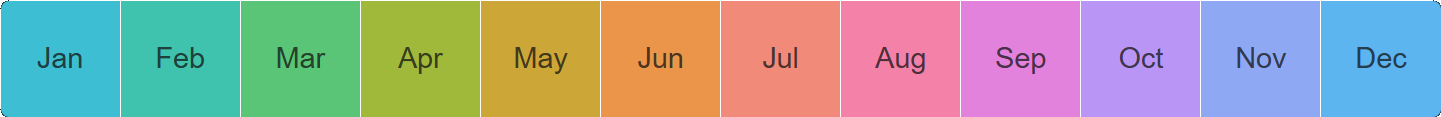
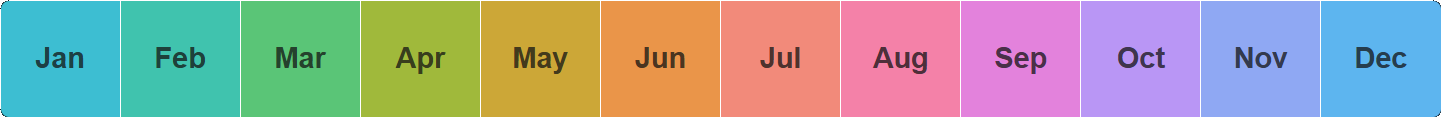
Update heading

diff --git a/index.html b/index.html
@@ -133,7 +133,7 @@
   }
 
   .month-label {
-    /* font-weight: bold; */
+    font-weight: bold;
     font-size: 1.8rem;
     /* margin-bottom: 0.25rem; */
   }
@@ -180,73 +180,73 @@
   <div class="ribbon-month" style="background: var(--jan-clear-ice)" data-hex="#3dbed2">
     <div class="month-label">Jan</div>
     <div class="sekki-label">Clear Ice</div>
-    <!-- <div class="jp-label">shōkan 小寒</div> -->
+    <div class="jp-label">shōkan 小寒</div>
     <div class="copied">Copied</div>
   </div>
   <div class="ribbon-month" style="background: var(--feb-budding-shore)" data-hex="#40c3ae">
     <div class="month-label">Feb</div>
     <div class="sekki-label">Budding Shore</div>
-    <!-- <div class="jp-label">usui 雨水</div> -->
+    <div class="jp-label">usui 雨水</div>
     <div class="copied">Copied</div>
   </div>
   <div class="ribbon-month" style="background: var(--mar-sprouting-fields)" data-hex="#5ac577">
     <div class="month-label">Mar</div>
     <div class="sekki-label">Sprouting Fields</div>
-    <!-- <div class="jp-label">keichitsu 啓蟄</div> -->
+    <div class="jp-label">keichitsu 啓蟄</div>
     <div class="copied">Copied</div>
   </div>
   <div class="ribbon-month" style="background: var(--apr-young-rice)" data-hex="#a0b93b">
     <div class="month-label">Apr</div>
     <div class="sekki-label">Young Rice</div>
-    <!-- <div class="jp-label">seimei 清明</div> -->
+    <div class="jp-label">seimei 清明</div>
     <div class="copied">Copied</div>
   </div>
   <div class="ribbon-month" style="background: var(--may-early-grain)" data-hex="#cca737">
     <div class="month-label">May</div>
     <div class="sekki-label">Early Grain</div>
-    <!-- <div class="jp-label">shōman 小満</div> -->
+    <div class="jp-label">shōman 小満</div>
     <div class="copied">Copied</div>
   </div>
   <div class="ribbon-month" style="background: var(--jun-summer-sol)" data-hex="#ea9549">
     <div class="month-label">Jun</div>
     <div class="sekki-label">Summer Sol</div>
-    <!-- <div class="jp-label">geshi 夏至</div> -->
+    <div class="jp-label">geshi 夏至</div>
     <div class="copied">Copied</div>
   </div>
   <div class="ribbon-month" style="background: var(--jul-heat-haze)" data-hex="#f28a7a">
     <div class="month-label">Jul</div>
     <div class="sekki-label">Heat Haze</div>
-    <!-- <div class="jp-label">shōsho 小暑</div> -->
+    <div class="jp-label">shōsho 小暑</div>
     <div class="copied">Copied</div>
   </div>
   <div class="ribbon-month" style="background: var(--aug-evening-festival)" data-hex="#f481a8">
     <div class="month-label">Aug</div>
     <div class="sekki-label">Evening Festival</div>
-    <!-- <div class="jp-label">obon お盆</div> -->
+    <div class="jp-label">obon お盆</div>
     <div class="copied">Copied</div>
   </div>
   <div class="ribbon-month" style="background: var(--sep-purple-dew)" data-hex="#e382dc">
     <div class="month-label">Sep</div>
     <div class="sekki-label">Purple Dew</div>
-    <!-- <div class="jp-label">hakuro 白露</div> -->
+    <div class="jp-label">hakuro 白露</div>
     <div class="copied">Copied</div>
   </div>
   <div class="ribbon-month" style="background: var(--oct-chrysanthemum-moon)" data-hex="#b996f5">
     <div class="month-label">Oct</div>
     <div class="sekki-label">Chrysanthemum Moon</div>
-    <!-- <div class="jp-label">kangetsu 観月</div> -->
+    <div class="jp-label">kangetsu 観月</div>
     <div class="copied">Copied</div>
   </div>
   <div class="ribbon-month" style="background: var(--nov-early-frost)" data-hex="#8fa8f3">
     <div class="month-label">Nov</div>
     <div class="sekki-label">Early Frost</div>
-    <!-- <div class="jp-label">sōkō 霜降</div> -->
+    <div class="jp-label">sōkō 霜降</div>
     <div class="copied">Copied</div>
   </div>
   <div class="ribbon-month" style="background: var(--dec-winter-sky)" data-hex="#5db5ef">
     <div class="month-label">Dec</div>
     <div class="sekki-label">Winter Sky</div>
-    <!-- <div class="jp-label">tōji 冬至</div> -->
+    <div class="jp-label">tōji 冬至</div>
     <div class="copied">Copied</div>
   </div>
 </div>
